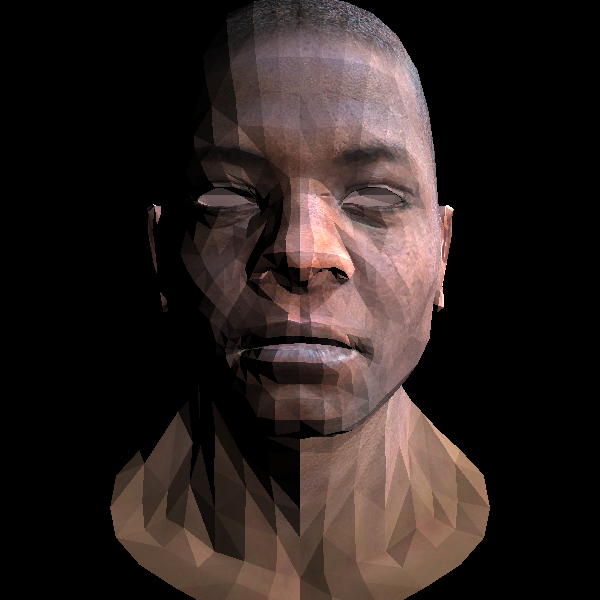
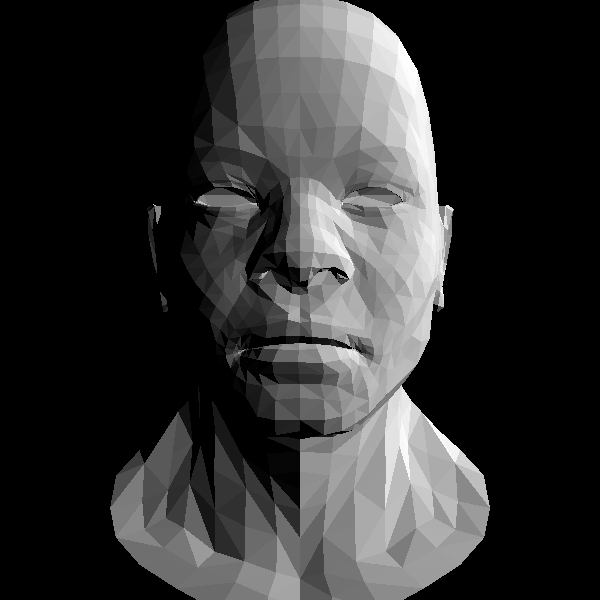
Render without texture

diff --git a/src/object.rs b/src/object.rs
@@ -60,7 +60,7 @@ impl Object {
     }
 
     fn set_pixels_in_buffer(&self, img: &mut RgbImage) {
-        let light_direction = Vector3::new(-2.0, -1.0, -1.0);
+        let light_direction = Vector3::new(-2.0, -1.0, -1.0).normalize();
 
         let (width, height) = img.dimensions();
         let mut zbuffer: Vec<Vec<f32>> = vec![vec![0.0; height as usize]; width as usize];
@@ -88,10 +88,7 @@ impl Object {
         texture: &(Vector3<f32>, Vector3<f32>, Vector3<f32>),
     ) {
         let ((x0, y0), (x1, y1)) = get_bounding_box(triangle);
-        let x0 = x0.floor().max(0.0) as u32;
-        let y0 = y0.floor().max(0.0) as u32;
-        let x1 = (x1.ceil() as u32).min(image.dimensions().0 - 1);
-        let y1 = (y1.ceil().max(0.0) as u32).min(image.dimensions().1 - 1);
+        let (x0, y0, x1, y1) = clamp(x0, y0, x1, y1, image.dimensions());
 
         for x in x0..=x1 {
             for y in y0..=y1 {
@@ -113,18 +110,28 @@ impl Object {
         image: &mut ImageBuffer<Rgb<u8>, Vec<u8>>,
     ) {
         if zbuffer[x as usize][y as usize] < z {
-            let texture_x = (texture.0.x * s + texture.1.x * t + texture.2.x * u) as u32;
-            let texture_y = (texture.0.y * s + texture.1.y * t + texture.2.y * u) as u32;
+            // let texture_x = (texture.0.x * s + texture.1.x * t + texture.2.x * u) as u32;
+            // let texture_y = (texture.0.y * s + texture.1.y * t + texture.2.y * u) as u32;
 
-            let color = self
-                .texture
-                .get_pixel(texture_x, texture_y)
-                .map(|x| (x as f32 * intensity) as u8);
+            // let color = self
+            //     .texture
+            //     .get_pixel(texture_x, texture_y)
+            //     .map(|x| (x as f32 * intensity) as u8);
+
+            let color: Rgb<u8> = Rgb([255, 255, 255]).map(|x| (x as f32 * intensity) as u8);
 
             image.put_pixel(x, y, color);
             zbuffer[x as usize][y as usize] = z;
         }
     }
+}
+
+fn clamp(x0: f32, y0: f32, x1: f32, y1: f32, (width, height): (u32, u32)) -> (u32, u32, u32, u32) {
+    let x0 = x0.floor().max(0.0) as u32;
+    let y0 = y0.floor().max(0.0) as u32;
+    let x1 = (x1.ceil() as u32).min(width - 1);
+    let y1 = (y1.ceil().max(0.0) as u32).min(height - 1);
+    (x0, y0, x1, y1)
 }
 
 fn draw_grey_image(zbuffer: Vec<Vec<f32>>, width: u32, height: u32) {

diff --git a/src/camera.rs b/src/camera.rs
@@ -52,10 +52,15 @@ impl Camera {
     }
 
     pub fn lookat(&mut self, eye: Vector3<f32>, focus: Vector3<f32>, up: Vector3<f32>) {
-        let z: Vector3<f32> = (focus - eye).normalize();
+        self.viewing_direction = (focus - eye).normalize();
+        let z: Vector3<f32> = self.viewing_direction;
         let x: Vector3<f32> = up.cross(&z).normalize();
         let y: Vector3<f32> = z.cross(&x).normalize();
 
         self.model_view = matrix![x.x, x.y, x.z, -focus.x; y.x, y.y, y.z, -focus.y; z.x, z.y, z.z, -focus.z; 0.0, 0.0, 0.0, 1.0];
+    }
+
+    pub fn view_dir(&self) -> Vector3<f32> {
+        self.viewing_direction
     }
 }
